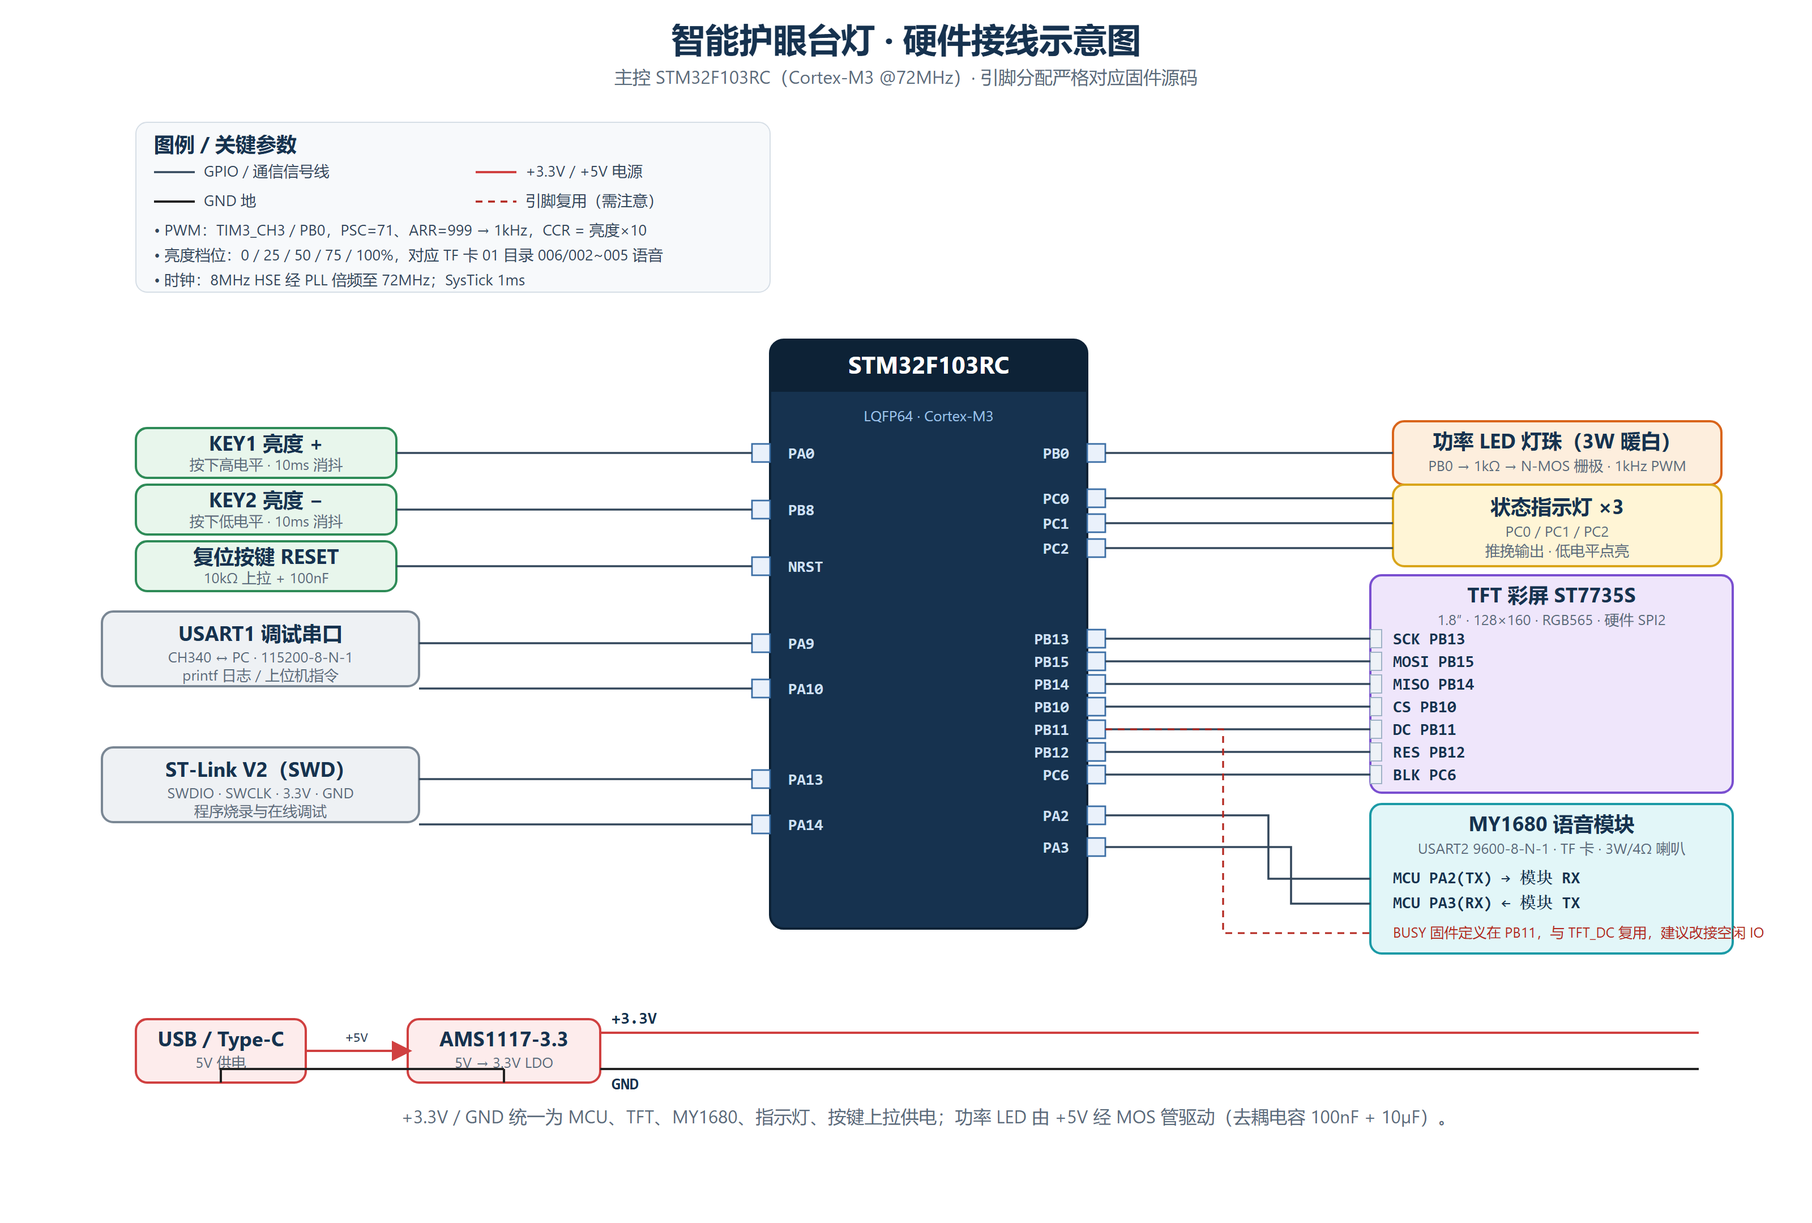
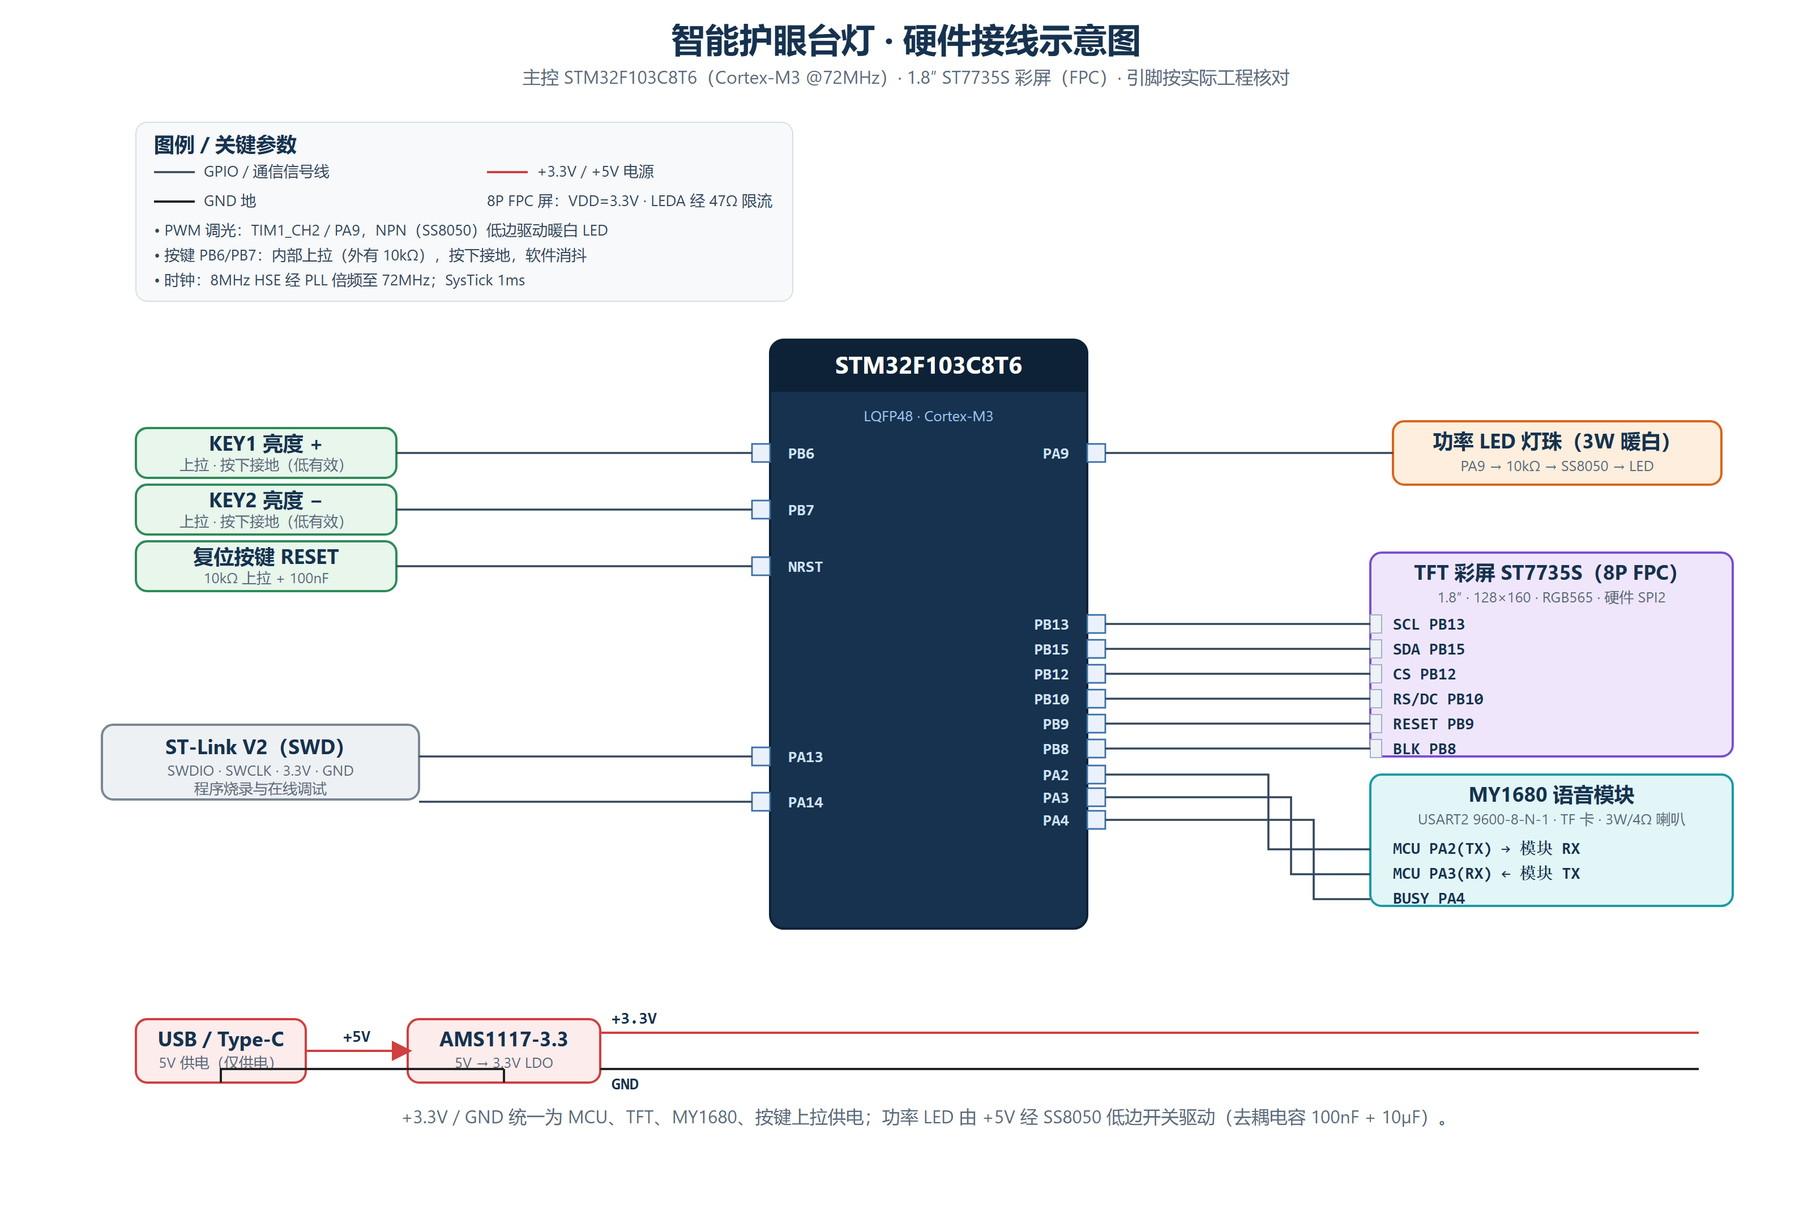
docs: update hardware to C8T6 + add official schematic
- Add the final board schematic (docs/assets/schematic.png)
- Redraw wiring diagram for STM32F103C8T6 + 1.8" ST7735S over 8P FPC:
  SCK=PB13 SDA=PB15 CS=PB12 RS=PB10 RST=PB9 BLK=PB8,
  PWM=PA9(TIM1_CH2) via NPN, keys PB6/PB7, voice USART2 PA2/PA3 + BUSY=PA4
- Sync README (zh/en) and docs/hardware.md pinout to this board revision

diff --git a/docs/hardware.md b/docs/hardware.md
@@ -1,12 +1,14 @@
 # 硬件设计说明（Hardware）
 
-> 本文档所有引脚分配、定时器通道、通信参数均**依据固件源码逐一核对**，与 `firmware/` 中的工程保持一致。
+> 本文档所有引脚分配、定时器通道、通信参数均**依据最终工程原理图逐脚核对**，与立创EDA 工程保持一致。
+>
+> 正式原理图见 [`assets/schematic.png`](assets/schematic.png)（嘉立创EDA 导出）。
 
-- **主控 MCU**：STM32F103RC（ARM Cortex-M3，72 MHz，256 KB Flash / 48 KB SRAM，LQFP64）
-- **固件库**：STM32F10x Standard Peripheral Library V3.5.0（编译宏 `STM32F10X_HD, USE_STDPERIPH_DRIVER`，启动文件 `startup_stm32f10x_hd.s`）
-- **显示**：1.8″ TFT 彩屏，驱动 IC **ST7735S**，128×160，RGB565，硬件 SPI
+- **主控 MCU**：STM32F103**C8T6**（ARM Cortex-M3，72 MHz，**64 KB Flash / 20 KB SRAM**，LQFP48）
+- **固件库**：STM32F10x Standard Peripheral Library V3.5.0（编译宏 `STM32F10X_MD, USE_STDPERIPH_DRIVER`，启动文件 `startup_stm32f10x_md.s`）
+- **显示**：1.8″ TFT 彩屏，驱动 IC **ST7735S**，128×160，RGB565，硬件 **SPI2**，经 **8P FPC** 座连接
 - **语音**：MY1680U-12P MP3 语音模块（UART 指令 + TF 卡音频）
-- **调光**：TIM3 PWM 驱动 N-MOS 管控制大功率 LED 灯珠
+- **调光**：TIM1_CH2 经 NPN 三极管（SS8050）低边驱动大功率 LED 灯珠
 
 ---
 
@@ -15,21 +17,19 @@
 ```mermaid
 flowchart LR
     subgraph IN[输入]
-        K1["KEY1 亮度+<br/>PA0"]
-        K2["KEY2 亮度-<br/>PB8"]
+        K1["KEY1 亮度+<br/>PB6"]
+        K2["KEY2 亮度-<br/>PB7"]
         RST["复位按键<br/>NRST"]
     end
 
-    MCU["STM32F103RC<br/>Cortex-M3 @72MHz"]
+    MCU["STM32F103C8T6<br/>Cortex-M3 @72MHz"]
 
     subgraph OUT[输出 / 交互]
-        TFT["ST7735S TFT<br/>128×160 · SPI2"]
-        LED["LED 灯珠<br/>TIM3_CH3 / PB0"]
+        TFT["ST7735S TFT<br/>128×160 · SPI2 · 8P FPC"]
+        LED["LED 灯珠<br/>TIM1_CH2 / PA9"]
         VOICE["MY1680 语音<br/>USART2"]
-        LED3["状态指示灯 ×3<br/>PC0 / PC1 / PC2"]
     end
 
-    DBG["USART1 调试串口<br/>PA9 / PA10 · 115200"]
     SWD["ST-Link / SWD<br/>PA13 / PA14"]
 
     K1 --> MCU
@@ -38,8 +38,6 @@ flowchart LR
     MCU --> TFT
     MCU --> LED
     MCU --> VOICE
-    MCU --> LED3
-    MCU <--> DBG
     SWD --> MCU
 ```
 
@@ -47,7 +45,7 @@ flowchart LR
 
 ## 2. 完整接线示意图
 
-下图按固件实际引脚绘制（含电源轨与引脚复用提示）。矢量源文件为 [`assets/wiring.svg`](assets/wiring.svg)，可自由放大或二次编辑：
+下图按最终工程引脚绘制（含电源轨）。矢量源文件为 [`assets/wiring.svg`](assets/wiring.svg)，可自由放大或二次编辑：
 
 <p align="center">
   <img src="assets/wiring.png" alt="硬件接线示意图" width="940">
@@ -57,50 +55,37 @@ flowchart LR
 
 ## 3. 引脚映射表（Pinout）
 
-| 功能 | STM32 引脚 | 外设 / 模式 | 电平 / 参数 | 源码位置 |
+| 功能 | STM32 引脚 | 外设 / 模式 | 电平 / 参数 | 备注 |
 |---|---|---|---|---|
-| **PWM 调光输出** | `PB0` | TIM3_CH3，复用推挽 | 1 kHz，PWM1，高有效 | `user/api/pwm.c` |
-| **KEY1 亮度加** | `PA0` | 浮空输入 | 按下为**高电平** | `user/api/key.c` |
-| **KEY2 亮度减** | `PB8` | 浮空输入 | 按下为**低电平** | `user/api/key.c` |
-| 状态指示灯 LED1 | `PC0` | 推挽输出 | 低电平点亮 | `user/api/led.c` |
-| 状态指示灯 LED2 | `PC1` | 推挽输出 | 低电平点亮 | `user/api/led.c` |
-| 状态指示灯 LED3 | `PC2` | 推挽输出 | 低电平点亮 | `user/api/led.c` |
-| 调试串口 USART1_TX | `PA9` | 复用推挽 | 115200-8-N-1 | `user/api/usart.c` |
-| 调试串口 USART1_RX | `PA10` | 浮空输入 | 115200-8-N-1 | `user/api/usart.c` |
-| 语音 USART2_TX → MY1680_RX | `PA2` | 复用推挽 | 9600-8-N-1 | `user/api/MY1680.c` |
-| 语音 USART2_RX ← MY1680_TX | `PA3` | 浮空输入 | 9600-8-N-1 | `user/api/MY1680.c` |
-| 语音 BUSY 检测 | `PB11` | 浮空输入 | 播放中为高电平 | `user/api/MY1680.h` |
-| TFT SPI2_SCK | `PB13` | 复用推挽 | SPI2 主机，MSB | `user/api/spi.c` |
-| TFT SPI2_MISO | `PB14` | 浮空输入 | — | `user/api/spi.c` |
-| TFT SPI2_MOSI | `PB15` | 复用推挽 | — | `user/api/spi.c` |
-| TFT 片选 CS | `PB10` | 推挽输出 | 低有效 | `user/api/lcd.h` |
-| TFT 数据/命令 DC | `PB11` | 推挽输出 | 低=命令 / 高=数据 | `user/api/lcd.h` |
-| TFT 复位 RES | `PB12` | 推挽输出 | 低复位 | `user/api/lcd.h` |
-| TFT 背光 BK | `PC6` | 推挽输出 | 高点亮 | `user/api/lcd.h` |
-| SWD 调试 | `PA13 / PA14` | SWDIO / SWCLK | ST-Link | — |
-| 系统时钟 | OSC_IN / OSC_OUT | 8 MHz HSE + PLL | 倍频至 72 MHz | `system_stm32f10x.c` |
+| **PWM 调光输出** | `PA9` | TIM1_CH2，复用推挽 | 1 kHz，NPN 低边驱动 | 经 10kΩ → SS8050 基极 |
+| TFT SPI2_SCK | `PB13` | 复用推挽 | SPI2 主机，MSB | |
+| TFT SPI2_MOSI | `PB15` | 复用推挽 | 数据线 SDA | |
+| TFT 片选 CS | `PB12` | 推挽输出 | 低有效 | |
+| TFT 数据/命令 RS(DC) | `PB10` | 推挽输出 | 低=命令 / 高=数据 | |
+| TFT 复位 RES | `PB9` | 推挽输出 | 低复位（10kΩ 上拉） | |
+| TFT 背光 BLK | `PB8` | 推挽输出 | 高点亮（LEDA 经 47Ω） | |
+| **KEY1 亮度加** | `PB6` | 上拉输入 | 按下为**低电平**（外 10kΩ 上拉） | |
+| **KEY2 亮度减** | `PB7` | 上拉输入 | 按下为**低电平**（外 10kΩ 上拉） | |
+| 语音 USART2_TX → MY1680_RX | `PA2` | 复用推挽 | 9600-8-N-1 | |
+| 语音 USART2_RX ← MY1680_TX | `PA3` | 上拉输入 | 9600-8-N-1 | |
+| 语音 BUSY 检测 | `PA4` | 上拉输入 | 播放中为高电平 | 独立引脚，无复用冲突 |
+| 复位按键 | `NRST` | — | 10kΩ 上拉 + 100nF | |
+| SWD 烧录调试 | `PA13 / PA14` | SWDIO / SWCLK | ST-Link | |
+| 系统时钟 | OSC_IN / OSC_OUT | 8 MHz HSE + PLL | 倍频至 72 MHz | |
 
-> **引脚复用注意（PB11）**：当前固件中 `PB11` 同时被定义为 TFT 的 `DC`（`lcd.h`）与语音模块的 `BUSY`（`MY1680.h`）。二者在物理上只能接一个外设。实际接线以 TFT 的 `DC` 为准（屏幕显示为必需信号）；若需要使用语音 BUSY 忙检测，请把 BUSY 改接到任一空闲 GPIO 并同步修改 `MY1680.h` 中的 `MY1680_BUSY_*` 宏。详见文末[已知问题与改进](#6-已知问题与改进建议)。
+> 说明：本板 USB Type-C 仅用于供电（无 USB 转串口芯片），`PA9` 复用作 PWM，故未引出 USART1；程序烧录与调试走 SWD。按键 PB6/PB7 为普通 GPIO，**不需要禁用 JTAG**。
 
 ---
 
 ## 4. PWM 调光原理
 
-- 定时器：`TIM3`，通道 `CH3` → 引脚 `PB0`
-- 时钟：定时器输入 72 MHz
+- 定时器：`TIM1`，通道 `CH2` → 引脚 `PA9`
+- 定时器时钟：72 MHz
 - 预分频 `PSC = 72 - 1`，自动重装载 `ARR = 1000 - 1`
-- PWM 频率：
+- PWM 频率：`f = 72 MHz / 72 / 1000 = 1 kHz`，远高于人眼可感知频率，无频闪。
+- 比较寄存器 `CCR2` 取值 0 ~ 1000，对应占空比 0% ~ 100%。
 
-  ```
-  f_pwm = 72 MHz / 72 / 1000 = 1 kHz
-  ```
-
-  1 kHz 远高于人眼可感知的闪烁频率，配合视觉暂留实现**无频闪调光**。
-
-- 比较寄存器 `CCR3` 取值 0 ~ 1000，对应占空比 0% ~ 100%
-- 应用层亮度参数 `light ∈ [0,100]`，写入时 `CCR3 = light × 10`（内部做了 0~100 限幅）
-
-| 亮度档位 light | CCR3 | 占空比 | 语音文件（TF 卡） |
+| 亮度档位 light | CCR2 | 占空比 | 语音文件（TF 卡） |
 |:---:|:---:|:---:|:---|
 | 0（关灯） | 0 | 0% | `01/006.mp3` |
 | 25 | 250 | 25% | `01/002.mp3` |
@@ -109,7 +94,7 @@ flowchart LR
 | 100（最亮） | 1000 | 100% | `01/005.mp3` |
 | 开机欢迎 | — | — | `01/001.mp3` |
 
-- PB0 输出的 PWM 信号经限流电阻驱动 **N 沟道 MOS 管（如 AO3400 / S8050 三极管）**，功率 LED 灯珠接在电源与漏极之间，通过控制导通时间比例调节平均电流，从而调节亮度。
+- PA9 输出的 PWM 经 10kΩ 基极电阻驱动 **NPN 三极管 SS8050**（低边开关）：LED 灯珠接在 3.3V/5V 电源与集电极之间，基极高电平时三极管导通、LED 点亮，通过占空比调节平均电流从而调光。
 
 ---
 
@@ -117,28 +102,25 @@ flowchart LR
 
 | # | 名称 | 型号 / 规格 | 数量 | 说明 |
 |---|---|---|:---:|---|
-| 1 | 主控 | STM32F103RC 核心板 / 最小系统 | 1 | Cortex-M3，72 MHz |
-| 2 | TFT 彩屏 | 1.8″ ST7735S，128×160，SPI | 1 | 显示界面 |
-| 3 | 语音模块 | MY1680U-12P | 1 | UART 控制，TF 卡播放 |
-| 4 | TF 卡 | MicroSD（≤ 32 GB，FAT32） | 1 | 存放 `01/001~006.mp3` |
-| 5 | 喇叭 | 3 W / 4 Ω | 1 | 语音播报 |
-| 6 | 功率 LED | 6070 暖白 3 W 灯珠 | 1 | 主照明 |
-| 7 | 开关管 | N-MOS（AO3400 等） | 1 | PWM 驱动 LED |
-| 8 | 轻触按键 | TS-1187A 类 | 2 | 亮度 + / 亮度 − |
-| 9 | 状态指示灯 | 3 mm LED | 3 | PC0~PC2 |
+| 1 | 主控 | STM32F103C8T6 | 1 | Cortex-M3，72 MHz，LQFP48 |
+| 2 | TFT 彩屏 | 1.8″ ST7735S，128×160，SPI | 1 | 8P FPC 排线 |
+| 3 | FPC 连接器 | 0.5mm / 8P 翻盖 | 1 | 屏排线座 |
+| 4 | 语音模块 | MY1680U-12P | 1 | UART 控制，TF 卡播放 |
+| 5 | TF 卡 | MicroSD（≤ 32 GB，FAT32） | 1 | 存放 `01/001~006.mp3` |
+| 6 | 喇叭 | 3 W / 4 Ω | 1 | 语音播报 |
+| 7 | 功率 LED | 暖白 3 W 灯珠 | 1 | 主照明 |
+| 8 | 开关管 | SS8050（NPN） | 1 | PWM 低边驱动 LED |
+| 9 | 轻触按键 | TS-1187A 类 | 2 | 亮度 + / 亮度 − |
 | 10 | 稳压 | AMS1117-3.3 | 1 | 5 V → 3.3 V |
-| 11 | 电阻 / 电容 | 10 kΩ、1 kΩ、100 nF、10 µF 等 | 若干 | 上拉 / 限流 / 去耦 |
+| 11 | 电阻 / 电容 | 10kΩ、10kΩ(LED 限流)、100nF、10µF、47Ω 等 | 若干 | 上拉 / 限流 / 去耦 |
 | 12 | 下载调试 | ST-Link V2（SWD） | 1 | 烧录与调试 |
-| 13 | 供电 | USB / Type-C 5 V | 1 | 系统供电 |
-
-> TFT 与主控的接线：`SCK→PB13、MISO→PB14、MOSI→PB15、CS→PB10、DC→PB11、RES→PB12、BLK→PC6、VCC→3.3V、GND→GND`。
+| 13 | 供电 | USB Type-C 5 V | 1 | 仅供电 |
 
 ---
 
 ## 6. 已知问题与改进建议
 
-- **PB11 复用冲突**：TFT 的 DC 与语音 BUSY 当前都映射到 PB11，二选一使用；建议给 BUSY 单独分配空闲引脚。
-- **五档步进调光**：当前为 0/25/50/75/100 五档，后续可改为无级连续调光。
-- **可增加环境光传感器**（如 BH1750，I²C）实现自适应亮度，或用 ADC + 电位器/旋钮调光。
-- **可增加无线模块**（蓝牙 / Wi-Fi）与手机 App，配合已预留的 USART1 指令协议实现远程控制。
-- **可加入护眼策略**：定时休息提醒、模拟日出渐亮唤醒、长时间使用告警等。
+- **Flash 容量（64 KB）**：C8T6 仅 64 KB Flash，ST7735S 驱动 + 中文字库 + 语音协议需精简中文字模（仅保留开机必要汉字）；如需更大字库可改用引脚兼容的 **STM32F103CBT6（128 KB）**。
+- **无级调光**：当前为 0/25/50/75/100 五档，后续可改 ADC 旋钮 / 电容滑条无级调光。
+- **环境光自适应**：可在空闲 PB6/PB7 之外另引 I²C（PB6/PB7 硬件 I2C1）接 BH1750 实现自适应亮度。
+- **无线控制**：PA2/PA3 的 USART2 现占用，可另引空闲脚接蓝牙 / Wi-Fi 模块远程控制。

diff --git a/README.md b/README.md
@@ -2,9 +2,9 @@
 
 # 智能护眼台灯固件 · Smart Eye-Care Desk Lamp
 
-**基于 STM32F103RC 的 PWM 无级/五级调光、语音播报与 TFT 彩屏显示的嵌入式裸机项目**
+**基于 STM32F103C8T6 的 PWM 调光、语音播报与 1.8″ TFT 彩屏显示的嵌入式裸机项目**
 
-[![MCU](https://img.shields.io/badge/MCU-STM32F103RC-blue)](https://www.st.com/en/microcontrollers-microprocessors/stm32f103rc.html)
+[![MCU](https://img.shields.io/badge/MCU-STM32F103C8T6-blue)](https://www.st.com/en/microcontrollers-microprocessors/stm32f103c8t6.html)
 [![Core](https://img.shields.io/badge/Core-ARM%20Cortex--M3%20%4072MHz-success)]()
 [![Toolchain](https://img.shields.io/badge/Keil-MDK--ARM-orange)]()
 [![Library](https://img.shields.io/badge/StdPeriph_Lib-V3.5.0-orange)]()
@@ -23,11 +23,11 @@
 
 ## 功能特性
 
-- **硬件 PWM 调光**：TIM3_CH3 输出 1 kHz PWM，无频闪；0% / 25% / 50% / 75% / 100% 五档亮度，软件限幅保护
-- **按键交互**：亮度加 / 减两键，10 ms 软件消抖 + 等待释放，防止误触发与连按
-- **TFT 彩屏显示**：ST7735S（128×160，RGB565，硬件 SPI2），自绘字符 / 汉字 / 位图，含开机欢迎界面
+- **硬件 PWM 调光**：TIM1_CH2（PA9）输出 1 kHz PWM，经 NPN 三极管低边驱动，无频闪；0% / 25% / 50% / 75% / 100% 五档亮度，软件限幅保护
+- **按键交互**：亮度加 / 减两键（PB6/PB7），10 ms 软件消抖 + 等待释放，防止误触发与连按
+- **TFT 彩屏显示**：ST7735S（128×160，RGB565，硬件 SPI2，8P FPC），自绘字符 / 汉字 / 位图，含开机欢迎界面
 - **语音播报**：MY1680 模块经 USART2 发送自定义二进制协议帧，按档位播放 TF 卡语音，BUSY 忙等待防丢帧
-- **调试串口**：USART1（115200），`printf` 重定向，RXNE + IDLE 中断 + 环形缓冲接收，预留上位机控制协议
+- **SWD 烧录调试**：ST-Link 经 PA13/PA14 SWD 烧录与在线调试；串口指令协议帧保留，便于后续扩展蓝牙 / Wi-Fi
 - **精确时基**：SysTick 1 ms 中断提供毫秒 / 微秒延时
 - **可扩展接口**：串口指令帧 + 校验机制，为环境光自适应、无线远程控制预留
 
@@ -36,10 +36,10 @@
 ```mermaid
 flowchart LR
     subgraph IN[输入]
-        K1["KEY1 亮度+<br/>PA0"]
-        K2["KEY2 亮度-<br/>PB8"]
+        K1["KEY1 亮度+<br/>PB6"]
+        K2["KEY2 亮度-<br/>PB7"]
     end
-    MCU["STM32F103RC<br/>Cortex-M3 @72MHz"]
+    MCU["STM32F103C8T6<br/>Cortex-M3 @72MHz"]
     subgraph OUT[输出 / 交互]
         TFT["ST7735S TFT<br/>128×160 · SPI2"]
         LED["LED 灯珠<br/>PWM · PB0"]
@@ -64,13 +64,12 @@ flowchart LR
 
 | 模块 | 器件 | 接口 / 引脚 |
 |---|---|---|
-| 主控 | STM32F103RC（Cortex-M3，256 KB Flash / 48 KB RAM） | — |
-| 显示 | 1.8″ ST7735S TFT，128×160，RGB565 | SPI2：PB13/14/15，CS=PB10，DC=PB11，RES=PB12，BLK=PC6 |
-| 调光 | TIM3_CH3 PWM → N-MOS 管 → 3 W 暖白 LED | PB0，1 kHz |
-| 按键 | 亮度+ / 亮度− 轻触开关 | PA0（高有效）/ PB8（低有效） |
-| 语音 | MY1680U-12P + TF 卡 + 喇叭 | USART2：PA2/PA3，BUSY=PB11，9600 bps |
-| 状态灯 | 3 × 指示 LED | PC0 / PC1 / PC2 |
-| 调试 | USART1 + ST-Link SWD | PA9/PA10，PA13/PA14 |
+| 主控 | STM32F103C8T6（Cortex-M3，64 KB Flash / 20 KB RAM） | — |
+| 显示 | 1.8″ ST7735S TFT，128×160，RGB565，8P FPC | SPI2：SCK=PB13，SDA=PB15，CS=PB12，RS=PB10，RES=PB9，BLK=PB8 |
+| 调光 | TIM1_CH2 PWM → NPN（SS8050）→ 3 W 暖白 LED | PA9，1 kHz |
+| 按键 | 亮度+ / 亮度− 轻触开关 | PB6 / PB7（外 10kΩ 上拉，低有效） |
+| 语音 | MY1680U-12P + TF 卡 + 喇叭 | USART2：PA2/PA3，BUSY=PA4，9600 bps |
+| 烧录 | ST-Link SWD | PA13 / PA14 |
 
 > 完整引脚映射、BOM、PWM 时序与接线说明见 **[docs/hardware.md](docs/hardware.md)**。
 
@@ -108,7 +107,7 @@ firmware/user/api/
 
 ## 快速开始
 
-**环境要求**：Keil MDK-ARM（ARM Compiler 5）、ST-Link V2、STM32F103RC 开发板
+**环境要求**：Keil MDK-ARM（ARM Compiler 5）、ST-Link V2、STM32F103C8T6 自制板/核心板
 
 ```bash
 # 1. 克隆仓库

diff --git a/README.en.md b/README.en.md
@@ -2,9 +2,9 @@
 
 # Smart Eye-Care Desk Lamp Firmware
 
-**STM32F103RC bare-metal firmware — PWM dimming, voice broadcast & TFT display**
+**STM32F103C8T6 bare-metal firmware — PWM dimming, voice broadcast & 1.8″ TFT display**
 
-[![MCU](https://img.shields.io/badge/MCU-STM32F103RC-blue)](https://www.st.com/en/microcontrollers-microprocessors/stm32f103rc.html)
+[![MCU](https://img.shields.io/badge/MCU-STM32F103C8T6-blue)](https://www.st.com/en/microcontrollers-microprocessors/stm32f103c8t6.html)
 [![Core](https://img.shields.io/badge/Core-ARM%20Cortex--M3%20%4072MHz-success)]()
 [![Toolchain](https://img.shields.io/badge/Keil-MDK--ARM-orange)]()
 [![Library](https://img.shields.io/badge/StdPeriph_Lib-V3.5.0-orange)]()
@@ -25,11 +25,11 @@ The firmware follows a **bare-metal super-loop + interrupt** architecture on top
 
 ## Features
 
-- **Hardware PWM dimming** — TIM3_CH3, 1 kHz flicker-free; five levels (0/25/50/75/100%) with software clamping
-- **Button HMI** — brightness up/down keys with 10 ms software debounce and release detection
-- **TFT color display** — ST7735S (128×160, RGB565, hardware SPI2); custom characters, Chinese glyphs and bitmaps, boot splash screen
+- **Hardware PWM dimming** — TIM1_CH2 (PA9), 1 kHz flicker-free via an NPN low-side switch; five levels (0/25/50/75/100%) with software clamping
+- **Button HMI** — brightness up/down keys (PB6/PB7) with 10 ms software debounce and release detection
+- **TFT color display** — ST7735S (128×160, RGB565, hardware SPI2, 8P FPC); custom characters, Chinese glyphs and bitmaps, boot splash screen
 - **Voice broadcast** — MY1680 over USART2 using a custom binary frame; plays per-level audio from a TF card, with BUSY polling to avoid dropped commands
-- **Debug UART** — USART1 @115200, redirected `printf`, RXNE+IDLE interrupts with a ring buffer, reserved host-control protocol
+- **SWD debugging** — ST-Link on PA13/PA14 for flashing & debugging; framed UART protocol reserved for wireless expansion
 - **Accurate timing** — 1 ms SysTick tick for ms/µs delays
 - **Extensible** — framed UART command protocol with checksums, ready for ambient-light sensing or wireless control
 
@@ -38,10 +38,10 @@ The firmware follows a **bare-metal super-loop + interrupt** architecture on top
 ```mermaid
 flowchart LR
     subgraph IN[Inputs]
-        K1["KEY1 Brightness+<br/>PA0"]
-        K2["KEY2 Brightness-<br/>PB8"]
+        K1["KEY1 Brightness+<br/>PB6"]
+        K2["KEY2 Brightness-<br/>PB7"]
     end
-    MCU["STM32F103RC<br/>Cortex-M3 @72MHz"]
+    MCU["STM32F103C8T6<br/>Cortex-M3 @72MHz"]
     subgraph OUT[Outputs]
         TFT["ST7735S TFT<br/>128x160 - SPI2"]
         LED["Power LED<br/>PWM - PB0"]
@@ -66,13 +66,12 @@ flowchart LR
 
 | Block | Device | Interface / Pins |
 |---|---|---|
-| MCU | STM32F103RC (Cortex-M3, 256 KB Flash / 48 KB RAM) | — |
-| Display | 1.8″ ST7735S TFT, 128×160, RGB565 | SPI2 PB13/14/15; CS=PB10, DC=PB11, RES=PB12, BLK=PC6 |
-| Dimming | TIM3_CH3 PWM → N-MOSFET → 3 W warm-white LED | PB0, 1 kHz |
-| Buttons | Up / Down tactile switches | PA0 (active-high) / PB8 (active-low) |
-| Voice | MY1680U-12P + TF card + speaker | USART2 PA2/PA3, BUSY=PB11, 9600 bps |
-| Status LEDs | 3 × indicator LEDs | PC0 / PC1 / PC2 |
-| Debug | USART1 + ST-Link SWD | PA9/PA10, PA13/PA14 |
+| MCU | STM32F103C8T6 (Cortex-M3, 64 KB Flash / 20 KB RAM) | — |
+| Display | 1.8″ ST7735S TFT, 128×160, RGB565, 8P FPC | SPI2: SCK=PB13, SDA=PB15, CS=PB12, RS=PB10, RES=PB9, BLK=PB8 |
+| Dimming | TIM1_CH2 PWM → NPN(SS8050) → 3 W warm-white LED | PA9, 1 kHz |
+| Buttons | Up / Down tactile switches | PB6 / PB7 (10kΩ pull-up, active-low) |
+| Voice | MY1680U-12P + TF card + speaker | USART2: PA2/PA3, BUSY=PA4, 9600 bps |
+| Debug | ST-Link SWD | PA13 / PA14 |
 
 > Full pinout, BOM, PWM timing and wiring notes: **[docs/hardware.md](docs/hardware.md)**.
 
